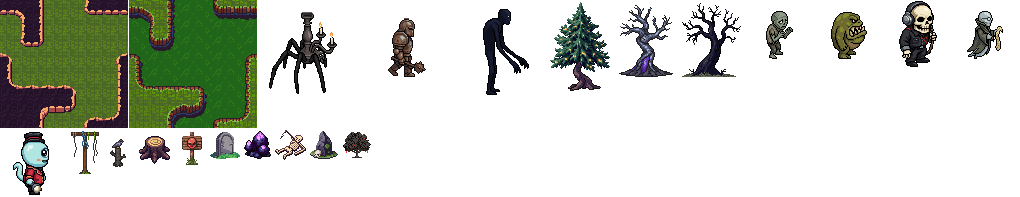
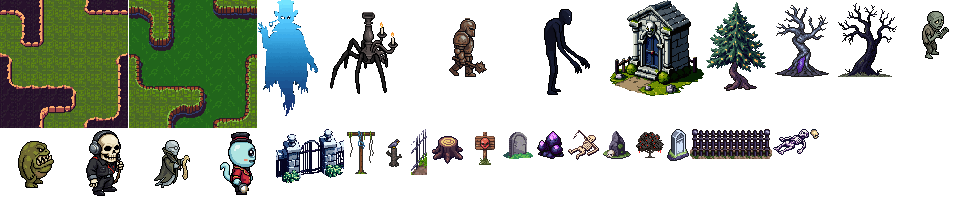
EastScape: the Boneyard rebuilt as six railed graveyards, and The Critic in the Royal Box
The owner: "rebuild the boneyard ... i want there to be graveyards that are bllocked off
by fences, that run long along the pathways and have a small entrance into them, then the
mobs are in there. add art as needed, add a mini ghost boss as well with custom art"

THE ROADS ARE SAFE AND THE YARDS ARE NOT, and that is the whole shape of it. It used to be
one field with monsters sprinkled over it, so a skiller walking to the dragonstone picked
up whatever was nearest whether they wanted a fight or not. Now the paths are clear, every
monster is behind iron railings, and each yard has ONE gap — a fight is something you step
into on purpose. The Flyloft and the Green Room west of the road to Cloudreach, the Gods
and the Pit east of it, the Cheap Seats and the Royal Box south of the main road.

THE CRITIC is the mini boss: a spectral theatre critic, alone in the Royal Box with a
mausoleum, level 42 and 200 health — six and a half Understudies — where the map's band
tops out at 39. He pays 600, the biggest bounty in the game bar The House, and per second
he is still WORSE than farming the yard next door: the reason to open his gate is his rare
table, which is the whole map's on one kill.

FOUR THINGS THE CHECKERS FOUND, each of which was really wrong:
  - graves scattered by hashRand sealed corners of the three-deep yards, walling two
    Chandelier Spiders and an Understudy where nobody could reach them. A stone is now laid
[…]

Changed region(s): [[0.0, 0.0, 0.8669, 1.0], [0.4644, 0.0, 0.9907, 0.4873]]

diff --git a/v3/assets/js/eastscape-shared.js b/v3/assets/js/eastscape-shared.js
@@ -13,7 +13,7 @@
    ============================================================ */
 
 // bump with every change to this file: the server says which version it runs, and a page on another version reloads
-export const VERSION = 227;
+export const VERSION = 228;
 // Maps are 44 x 26 tiles (twice the old 22 x 13 each way, 2026-09-19). The screen shows a 22 x 13 window that follows
 // you (ZOOM in the page), so characters look the size they always did and there's four times the room.
 export const COLS = 44, ROWS = 26;
@@ -1726,31 +1726,142 @@ Object.assign(SCENES, {
     name: "The Boneyard", dark: true, exits: { e: "mire", n: "cloud", w: "sands" }, tint: "rgba(60,20,70,.2)",
     build() {
       const g = grid(), objs = [], keep = [];
-      /* (v122) woodcutting's next step. Every map has had choppable trees all along; these are the tiered ones, so the skill pays better as you go out further instead of paying `logs` forever. */
-      /* (2026-09-22) one ore per tier, on the map whose level band matches it. `rock`, not `vein`, because the art is
-         o_rock_<ore> and that is what exists for every middle tier; o_vein_* is only drawn for copper. */
-      for (const [x, y] of [[5, 19], [9, 20]]) { objs.push({ t: "rock", x, y, ore: "dragonstone_ore", name: "Dragonstone rock", req: { skill: "mining", lvl: 40 }, xp: 86 }); g[y][x] = "#"; }
-      for (const [tx, ty] of [[7, 8], [34, 17]]) { objs.push({ t: "yew", x: tx, y: ty, log: "yewlogs", name: "Ancient yew", req: { skill: "woodcutting", lvl: 35 }, xp: 170 }); g[ty][tx] = "#"; }
-      for (let x = 0; x < COLS; x++) g[13][x] = ",";
-      for (let y = 13; y <= 17; y++) g[y][35] = ",";
-      // the flooded crypt, fished from its north side: bonefish from Fishing 30, ghost carp from 35
-      for (let y = 19; y <= 22; y++) for (let x = 31; x <= 40; x++) g[y][x] = "~";
-      scatterSpots(objs, 31, 40, 19, 5, [1, 2, 4], { name: "Flooded crypt", req: { skill: "fishing", lvl: 30 }, fish: "bonefish", fish2: "ghostcarp", fish2lvl: 35, xp: 110, xp2: 130, glow: "#d8c8ff", tease: "Pale shapes slide between the sunken headstones. Fishing 30." });
-      for (let x = 30; x <= 41; x++) keep.push([x, 18], [x, 17]);
-      for (const [x, y] of [[9, 5], [11, 6], [10, 8], [20, 18], [22, 19], [21, 21], [33, 5], [35, 6], [34, 8], [25, 5], [13, 20]]) { objs.push({ t: "gravestone", x, y, name: "Gravestone" }); g[y][x] = "#"; }
-      for (const [x, y] of [[7, 19], [27, 9], [38, 11]]) { objs.push({ t: "skeleton", x, y, name: "Somebody who stayed" }); g[y][x] = "#"; }
-      for (const [x, y] of [[4, 4], [18, 3], [40, 4], [24, 22]]) { objs.push({ t: "deadtree", x, y, name: "Dead tree" }); g[y][x] = "#"; }
-      NORTH_ROAD(g, keep); objs.push({ t: "sign", x: 20, y: 11, name: "North, and up: Cloudreach. It opens at Combat 40, and Fishing 40. Bring a head for heights." }); g[11][20] = "#";
-      objs.push({ t: "sign", x: 28, y: 15, name: "THE BONEYARD: Combat 30 to 39. Nothing here attacks first. Ghouls to the east, Stagehands to the west, Understudies in the middle, Chandelier Spiders in the north-east, One-Eyed Ushers in the far south-west." }); g[15][28] = "#";
-      for (let x = 0; x < COLS; x++) keep.push([x, 12], [x, 14]);
+
+      /* ---------------------------------------------------------------- SIX RAILED GRAVEYARDS
+         (2026-09-24, the owner: "i want there to be graveyards that are bllocked off by fences, that run long
+         along the pathways and have a small entrance into them, then the mobs are in there. add art as needed,
+         add a mini ghost boss as well with custom art")
+
+         THE ROADS ARE SAFE AND THE YARDS ARE NOT, and that is the whole shape of the map now. It used to be one
+         field with monsters sprinkled over it, so a skiller walking to the dragonstone picked up whatever was
+         nearest whether they wanted a fight or not. Now the paths are clear, every monster is behind iron
+         railings, and each yard has ONE gap in its fence — so a fight is something you step into on purpose.
+
+         `yard()` draws the perimeter and returns the interior. Three rules it keeps, each of which was a bug the
+         first time the map was walked: the gate tile is left OPEN and only wears the gate PICTURE (an object
+         does not block unless the grid says so, and a blocked gate is a yard nobody can enter); every fence tile
+         and every gate goes in `keep`, because wild() paints the edges AFTER build returns and would otherwise
+         rub a railing out; and the fence runs a whole tile outside the interior, so a monster homed against the
+         inside of the wall can still be reached from within rather than only through the bars. */
+      const RAIL = { n: "railH", s: "railH", w: "railV", e: "railV" };
+      const yard = (x0, y0, x1, y1, side, at, name) => {
+        const put = (x, y, t) => {
+          if (x < 0 || y < 0 || x >= COLS || y >= ROWS) return;
+          keep.push([x, y]);
+          if ((side === "n" && y === y0 && x === at) || (side === "s" && y === y1 && x === at)
+            || (side === "w" && x === x0 && y === at) || (side === "e" && x === x1 && y === at)) {
+            objs.push({ t: "railgate", x, y, name: `${name}: the way in` });   // NOT blocked: this is the gap
+            return;
+          }
+          objs.push({ t, x, y, name: `${name}: iron railings` }); g[y][x] = "#";
+        };
+        for (let x = x0; x <= x1; x++) { put(x, y0, RAIL.n); put(x, y1, RAIL.s); }
+        for (let y = y0 + 1; y < y1; y++) { put(x0, y, RAIL.w); put(x1, y, RAIL.e); }
+        for (let y = y0 + 1; y < y1; y++) for (let x = x0 + 1; x < x1; x++) keep.push([x, y]);
+        return { x0: x0 + 1, y0: y0 + 1, x1: x1 - 1, y1: y1 - 1 };
+      };
+
+      /* the four northern yards sit either side of the road to Cloudreach, with a lane at y6 between the pairs;
+         the two southern ones open onto the shoulder under the main road. Every gate faces a path. */
+      const A = yard(2, 1, 19, 5, "s", 10, "The Flyloft");        // Stagehands
+      const B = yard(25, 1, 42, 5, "s", 33, "The Gods");          // Chandelier Spiders
+      const C = yard(2, 7, 19, 11, "n", 10, "The Green Room");    // Understudies
+      const D = yard(25, 7, 42, 11, "n", 33, "The Pit");          // Ghouls
+      const E = yard(1, 17, 12, 24, "n", 6, "The Cheap Seats");   // One-Eyed Ushers
+      const F = yard(16, 17, 29, 24, "n", 22, "The Royal Box");   // the Critic
+
+      /* ---------------------------------------------------------------- the paths
+         Drawn AFTER the yards so a road always wins a tile: the main east-west road, the north road to
+         Cloudreach, the lane between the northern pairs, and the shoulder the two southern gates open onto. */
+      for (let x = 0; x < COLS; x++) { g[13][x] = ","; keep.push([x, 12], [x, 13], [x, 14], [x, 6], [x, 15], [x, 16]); }
+      for (let x = 0; x < COLS; x++) if (g[6][x] !== "#") g[6][x] = ",";
+      for (let y = 15; y <= 16; y++) for (let x = 0; x < COLS; x++) if (g[y][x] !== "#") g[y][x] = ".";
+      for (let y = 17; y <= 24; y++) for (const x of [13, 14, 15, 30, 31, 32]) { if (g[y][x] !== "#") g[y][x] = "."; keep.push([x, y]); }
+      NORTH_ROAD(g, keep);
+
+      /* ---------------------------------------------------------------- what you came here to gather, OUTSIDE the railings
+         (v122 trees, 2026-09-22 ore: one rung per map.) They are all on open ground on purpose — the point of
+         fencing the monsters in is that a skiller can work this map without taking a swing. */
+      /* (2026-09-24) x15 AND NOT x13: tools/eastscape-aggro-check.mjs measures a monster’s reach as DISTANCE,
+         not as somewhere it can walk to, and three One-Eyed Ushers inside the Cheap Seats were within three tiles
+         of the dragonstone. The railings mean they could never actually get there — but they would lock onto a
+         miner and mill at the fence, which is a monster doing something pointless in full view. Two tiles further
+         into the lane and the yard cannot see the rocks at all. */
+      /* THE WORKING CORNER (2026-09-24). All four of these started spread across the map and every place they
+         went was inside an aggressive monster’s reach, which tools/eastscape-aggro-check.mjs measures as where
+         it can STAND (home, wandered) plus its aggro. The southern shoulder is the whole width of two yards, so
+         a rock anywhere along it is three tiles from an Usher or the Critic at the railings: they could never
+         get out, but they would lock onto a miner and mill at the fence. East of x32 nothing can see them, so
+         the ore, the yews and the flooded crypt are one corner you work in peace. */
+      for (const [x, y] of [[33, 15], [36, 16]]) { objs.push({ t: "rock", x, y, ore: "dragonstone_ore", name: "Dragonstone rock", req: { skill: "mining", lvl: 40 }, xp: 86 }); g[y][x] = "#"; }
+      for (const [tx, ty] of [[39, 15], [42, 17]]) { objs.push({ t: "yew", x: tx, y: ty, log: "yewlogs", name: "Ancient yew", req: { skill: "woodcutting", lvl: 35 }, xp: 170 }); g[ty][tx] = "#"; }
+      // the flooded crypt, fished from its north bank: bonefish from Fishing 30, ghost carp from 35
+      for (let y = 19; y <= 24; y++) for (let x = 33; x <= 42; x++) g[y][x] = "~";
+      scatterSpots(objs, 33, 42, 19, 5, [1, 2, 4], { name: "Flooded crypt", req: { skill: "fishing", lvl: 30 }, fish: "bonefish", fish2: "ghostcarp", fish2lvl: 35, xp: 110, xp2: 130, glow: "#d8c8ff", tease: "Pale shapes slide between the sunken headstones. Fishing 30." });
+      for (let x = 32; x <= 43; x++) keep.push([x, 17], [x, 18]);
+
+      /* ---------------------------------------------------------------- the graves, which is what makes them graveyards
+         Scattered by hashRand rather than listed, so every yard is full without six hand-written tables. The
+         lane in front of a gate is left clear (nothing within two tiles of it), and so is every monster's spot —
+         a headstone under a Stagehand is a monster you cannot walk up to. */
+      const mobAt = new Set();
+      const graves = (r, gateX, gateY) => {
+        /* how much of this yard you can walk, coming in through its gate */
+        const walk = () => {
+          const seen = new Set(), q = [[gateX, gateY]];
+          seen.add(`${gateX},${gateY}`);
+          while (q.length) {
+            const [x, y] = q.pop();
+            for (const [dx, dy] of [[1, 0], [-1, 0], [0, 1], [0, -1]]) {
+              const nx = x + dx, ny = y + dy, k = `${nx},${ny}`;
+              if (nx < r.x0 || nx > r.x1 || ny < r.y0 || ny > r.y1 || seen.has(k) || g[ny][nx] !== ".") continue;
+              seen.add(k); q.push([nx, ny]);
+            }
+          }
+          return seen.size;
+        };
+        /* A GRAVE THAT WOULD WALL SOMETHING OFF IS NOT PLACED. These yards are three tiles deep in places, so a
+           headstone in the wrong square seals a corner - and the first run of this map left two Chandelier
+           Spiders and an Understudy standing in pockets nobody could reach. Each stone is laid down, the yard is
+           re-walked, and it is taken up again if the reachable count fell by more than the one tile it occupies.
+           Forty-odd tiles a yard and a dozen stones, so the cost is nothing and the result cannot be wrong. */
+        for (let y = r.y0; y <= r.y1; y++) for (let x = r.x0; x <= r.x1; x++) {
+          if (Math.abs(x - gateX) <= 1 && Math.abs(y - gateY) <= 2) continue;   // leave the way in clear
+          if (mobAt.has(`${x},${y}`) || g[y][x] !== ".") continue;
+          const h = hashRand(x, y, 33);
+          if (h > 0.30) continue;
+          const before = walk();
+          g[y][x] = "#";
+          if (walk() !== before - 1) { g[y][x] = "."; continue; }   // it cut something off: put it back
+          const t = h < 0.21 ? "gravestone" : h < 0.27 ? "bonepile" : "skeleton";
+          objs.push({ t, x, y, name: t === "gravestone" ? "Gravestone" : t === "bonepile" ? "Bones, stacked" : "Somebody who stayed" });
+        }
+      };
+
+      /* ---------------------------------------------------------------- THE ROYAL BOX
+         The mini boss's yard, and the only one with a building in it. The mausoleum is two tiles so it reads as
+         a place rather than a prop, and it sits off the gate's line so the Critic is what you meet first. */
+      objs.push({ t: "mausoleum", x: 25, y: 18, w: 2, h: 2, name: "A mausoleum. The name has worn off the lintel" });
+      block(g, 25, 18, 2, 2); keep.push([25, 18], [26, 18], [25, 19], [26, 19]);
+
+      for (const [x, y] of [[4, 4], [40, 4], [21, 25], [0, 20]]) { if (g[y]?.[x] === ".") { objs.push({ t: "deadtree", x, y, name: "Dead tree" }); g[y][x] = "#"; } }
+      objs.push({ t: "sign", x: 20, y: 12, name: "North, and up: Cloudreach. It opens at Combat 40, and Fishing 40. Bring a head for heights." }); g[12][20] = "#";
+      objs.push({ t: "sign", x: 24, y: 14, name: "THE BONEYARD: Combat 30 to 39. Nothing here comes through a fence. The Flyloft and the Green Room are west of the road, the Gods and the Pit east of it; the Cheap Seats and the Royal Box are south. Each yard has one gate. Something in the Royal Box does not wait to be asked." }); g[14][24] = "#";
+
+      // keep every mob's own square clear before the graves go in
+      for (const [, mx, my] of this.mobs) mobAt.add(`${mx},${my}`);
+      graves(A, 10, 5); graves(B, 33, 5); graves(C, 10, 7); graves(D, 33, 7); graves(E, 6, 17); graves(F, 22, 17);
+
       wild(g, objs, this.exits, { n: "scrub", s: "scrub", w: "scrub", e: "scrub" }, [...keepOf(this), ...keep], 33);
       return { g, objs, blobs: [] };
     },
-    mobs: [["ghoul", 36, 7], ["ghoul", 39, 9], ["ghoul", 31, 9], ["ghoul", 37, 3], ["ghoul", 41, 7], ["ghoul", 30, 6],
-      ["stagehand", 8, 8], ["stagehand", 13, 9], ["stagehand", 6, 6], ["stagehand", 14, 5], ["stagehand", 16, 17], ["stagehand", 18, 20],
-      ["understudy", 24, 17], ["understudy", 26, 20], ["understudy", 27, 16], ["understudy", 27, 8],
-      ["chandelier", 29, 2], ["chandelier", 31, 3], ["chandelier", 30, 4],
-      ["usher", 4, 21], ["usher", 6, 22], ["usher", 8, 21], ["usher", 5, 23]],
+    /* every monster is inside a yard, which is the point. The Critic is alone in his. */
+    mobs: [["stagehand", 5, 3], ["stagehand", 9, 2], ["stagehand", 14, 4], ["stagehand", 17, 3], ["stagehand", 12, 2],
+      ["chandelier", 28, 3], ["chandelier", 33, 2], ["chandelier", 38, 4], ["chandelier", 40, 2],
+      ["understudy", 6, 9], ["understudy", 11, 10], ["understudy", 16, 8], ["understudy", 13, 9],
+      ["ghoul", 28, 9], ["ghoul", 32, 8], ["ghoul", 36, 10], ["ghoul", 40, 9], ["ghoul", 30, 10], ["ghoul", 38, 8],
+      ["usher", 4, 19], ["usher", 8, 21], ["usher", 5, 22], ["usher", 9, 19], ["usher", 3, 23], ["usher", 10, 23],
+      ["critic", 22, 21]],
     npcs: [], bots: []
   },
   // east of the Forum: the great road, a toll post, highwaymen, and a barricade where the road washed out
@@ -2635,6 +2746,13 @@ export const MOBS = {
   counter: { name: "Card Counter", size: "m", lvl: 24, hp: 38, att: 18, def: 15, max: 4, speed: 2400, box: [8, 26], drops: [] },
   shark: { name: "Loan Shark", size: "m", lvl: 26, hp: 42, att: 19, def: 16, max: 5, speed: 2400, aggro: 3, box: [12, 28], drops: [] },
   stagehand: { name: "The Stagehand", size: "m", lvl: 32, hp: 50, att: 23, def: 20, max: 5, speed: 2400, box: [8, 28], drops: [] },
+  /* (2026-09-24, the owner: "add a mini ghost boss as well with custom art") THE CRITIC, alone in the Royal Box.
+     A MINI boss and not a dungeon one: no party, no ante, no run — he stands in a yard and you walk in. The
+     numbers say mini rather than big: 200 hit points against the Understudy’s 31, so about seven of the
+     hardest thing on this map, and level 42 so he sits just over the band’s ceiling of 39. He is the only
+     thing in the Boneyard that comes for you (`aggro`), which is why he is behind a gate you choose to open.
+     The declared hp is DOUBLE what he fights with: every mob in this table is halved at load. */
+  critic: { name: "The Critic", size: "xl", lvl: 42, hp: 400, att: 34, def: 30, max: 11, speed: 2500, aggro: 6, box: [16, 46], drops: [] },
   usher: { name: "One-Eyed Usher", size: "m", lvl: 36, hp: 56, att: 26, def: 23, max: 6, speed: 2400, aggro: 4, box: [8, 26], drops: [] },
   brainstorm: { name: "Brainstorm", size: "s", lvl: 40, hp: 60, att: 29, def: 25, max: 7, speed: 2200, box: [7, 16], drops: [] },
   seagoat: { name: "Sea-Goat of the Upper Air", size: "l", lvl: 46, hp: 78, att: 33, def: 29, max: 8, speed: 2800, box: [20, 36], drops: [] },
@@ -2734,6 +2852,9 @@ export const LOOT = {
   gator:      { item: ["hide", [1, 2]], rare: [["bogplate", 0.04], ["spiderboots", 0.02], ["angels_ring", 0.01]] },
   junkking:   { item: ["catalytic", [2, 4]], rare: [["kingcap", 0.08], ["wrench", 0.05], ["angels_ring", 0.04], ["slagstone", 0.5]] },
   understudy: { item: ["diamond_ore", [1, 2]], rare: [["bonegourd", 0.0125], ["sharps_gloves", 0.025]] },
+  /* HE PAYS IN THINGS. Bonegourds every time (the Boneyard’s alchemy crop, and the Coilbreaker wants one),
+     and the map’s whole rare table on one kill instead of spread over five monsters. */
+  critic: { item: ["bonegourd", [2, 4]], rare: [["monocle", 0.01], ["lantern", 0.01], ["angels_ring", 0.01], ["adjusters_visor", 0.01], ["spiderboots", 0.01]] },
   chandelier: { item: ["cobweb", 1], rare: [["bonegourd", 0.0125], ["lantern", 0.03], ["angels_ring", 0.02], ["spiderboots", 0.01]] },
   ram: { item: ["dragonstone_ore", 1], rare: [["stormcorn", 0.0125], ["grudge", 0.02], ["stake_loafers", 0.015]] },
   // v68: the bands' new residents. One thing each; the buff gear is spread so every band past the Yard can drop some
@@ -2783,7 +2904,7 @@ export const LOOT = {
    leave — run tools/eastscape-aggro-check.mjs after touching this, which is what proves an aggressive thing cannot
    camp a doorway. */
 export const AGGRO_ON = new Set([
-  "chandelier", "usher",                       // The Boneyard (30): yewlogs, dragonstone ore
+  "chandelier", "usher", "critic",             // The Boneyard (30): yewlogs, dragonstone ore — and The Critic, who is behind his own gate
   "revenant", "angel",                         // Cloudreach (40): onyx ore, skyeel
   "wolf", "drake", "house",                    // The Thunderhead (50): thundersquid
   "junkdog", "possum", "gator", "junkking",    // The Trailer Park (80): bogwood, slagstone, bowfin
@@ -4025,7 +4146,11 @@ export const CRAFT_PAYS = 2, CRAFT_STEP = 1.25;
    a minute than the one before it, from the Yard's chickens to The House, and the first monster of an area beats the last of the
    one before. Nothing was lowered. Measured a minute: Yard 189 to 230, Gloam 239 to 423, Mire 460 to 771, Boneyard 1,028 to
    1,202, Cloudreach 1,349 to 1,578, the Thunderhead 1,641 to 1,920. */
-export const BOUNTY = { chicken: 18, cow: 32, rotten: 39, olive: 38, hornworm: 51, boar: 53, highwayman: 40, goat: 45, gnasher: 80, moth: 74, taxwraith: 150, ghoul: 177, chandelier: 205, understudy: 250, ram: 266, angel: 352, revenant: 324, goose: 419,
+/* (2026-09-24) THE CRITIC pays 600, the biggest in the game bar The House. He is a slow kill — about seven
+   Understudies of health — so per second he is WORSE than farming the yard next door, and that is deliberate:
+   the reason to open his gate is the rare table, not the tickets. Without an entry here killFinds returns early,
+   so he would drop no rares, hand out no casino finds, and not count toward a Lucky clover. */
+export const BOUNTY = { critic: 600, chicken: 18, cow: 32, rotten: 39, olive: 38, hornworm: 51, boar: 53, highwayman: 40, goat: 45, gnasher: 80, moth: 74, taxwraith: 150, ghoul: 177, chandelier: 205, understudy: 250, ram: 266, angel: 352, revenant: 324, goose: 419,
   toadstool: 37, boneidle: 79, twister: 73, counter: 91, shark: 143, stagehand: 196, usher: 223, brainstorm: 247, seagoat: 329,
   /* THE 50+ BAND pays MORE than the tool asks: its reference wage goes flat at level 40 (there was no skilling past onyx), so left alone a level-70
      kill would pay a level-42 minute. These are the tool's numbers times 1 + 1.2% a level past 42, so the last band is worth reaching. The goose moved with them. */

diff --git a/eastscape.html b/eastscape.html
@@ -10,7 +10,7 @@
 <link rel="icon" type="image/png" sizes="32x32" href="/v3/assets/img/eastcoin-icon-32.png?v=1">
 <link rel="apple-touch-icon" sizes="180x180" href="/v3/assets/img/eastcoin-icon-180.png?v=1">
 <link rel="preload" href="/v3/assets/fonts/nunito-v32-latin.woff2" as="font" type="font/woff2" crossorigin>
-<link rel="modulepreload" href="/v3/assets/js/eastscape-shared.js?v=240">
+<link rel="modulepreload" href="/v3/assets/js/eastscape-shared.js?v=241">
 <link rel="modulepreload" href="/v3/assets/js/eastscape-sfx.js?v=13">
 <link rel="preconnect" href="https://play.eastcoin.vip">
 <!-- EastScape: the page only draws. Everything that happens is decided by the game server
@@ -1008,7 +1008,7 @@ b.who{cursor:pointer;text-decoration:underline dotted rgba(42,32,22,.45);text-un
   </aside>
 </main>
 <script type="module">
-import * as G from "/v3/assets/js/eastscape-shared.js?v=240";
+import * as G from "/v3/assets/js/eastscape-shared.js?v=241";
 // the wiki's words (guides, the update log) are 13 KB nobody needs until they open the wiki: fetched on first open
 let WK = { GUIDES: [], UPDATES: [{ date: "", title: "Loading…", items: [] }], SKILL_GUIDE: {}, stub: true };
 const loadWiki = () => (loadWiki.p ||= import("/v3/assets/js/eastscape-wiki.js?v=133").then((m) => { WK = m; }));
@@ -1549,7 +1549,7 @@ const ART_VER = { t_tomb: 4, o_bomkiosk: 7, o_plot: 2, kellz_south: 5, kellz_eas
    because a crop added to CROPS should ask for its art without anybody remembering to type four more names —
    the content check then fails until that art exists, which is the right way round. */
 const CROP_ART = Object.keys(G.CROPS).flatMap((k) => [1, 2, 3, 4].map((n) => `crop_${k}_${n}`));
-const ART_FILES = ["t_dock", ...CROP_ART, "o_yardtree", "o_yardtree_stump", "o_tower", "t_doors", "fx_hit", "fx_crit", "fx_miss", "fx_bleed", "vince_south", "vince_east", "casino", "rony_south", "rony_east", "o_bomkiosk", "t_pit", "o_fightboard", "o_hsboard", "o_fameboard", "o_ringbell", "o_ringpost", "o_mirror", "o_rrtable", "o_barcart", "kellz_south", "kellz_east", "livia_south", "livia_east", "gaius_south", "gaius_east", "aurelia_south", "aurelia_east", "arbino_south", "arbino_east", "vince_south", "vince_east", "sterling_south", "sterling_east", "o_buffet", "o_l_chips", "o_l_cards", "o_l_spill", "o_l_slips", "o_wetfloor", "o_mopbucket", "o_coatrack", "o_suitcase", "o_l_shoe", "o_soda", "o_snacks", "o_stool", "o_armchair", "o_ashtray", "o_smokesign", "o_trashcan", "o_cooler", "o_planter", "o_cashier", "o_hilo", "o_mines", "o_plinko", "o_scratch", "o_pokertable", "o_blackjack", "o_coinstatue", "o_ropepost", "o_cocktail", "o_jukebox", "o_oddsboard", "o_wildladder", "pet_bonepup", "pet_packrat", "pet_cointoad", "pet_lanternmoth", "pet_housecat", "pet_coilling",   /* (2026-09-24) the Pyramid’s pet was in PETS and had a picture on disk and was in NEITHER of these two lists — its icon drew an empty box AND an equipped one would have walked around invisible. Every pet goes in both, drop or no drop. */ "o_prizewheel", "o_piano", "o_atm", "wall_neon", "wall_painting1", "wall_painting2", "pete_south", "pete_east", "nana_south", "nana_east", "randy_south", "randy_east", "wendell_south", "wendell_east", "ronde_south", "ronde_east", "t_casino", "t_roulette", "rug_casino", "rouge_south", "rouge_east", "dex_south", "dex_east", "dookie_south", "dookie_east", "t_dirt", "t_brick", "o_fencepost", "o_crates", "o_lamppost", "o_sacks", "o_handcart", "t_track", "o_gateframe", "o_gatebars", "o_agilend", "o_trailer", "o_wreck", "o_tyres", "o_dumpster", "o_rock_slagstone", "o_rustpine", "o_bogwood", "junkdog", "possum", "scrapper", "gator", "junkking", "darla_south", "darla_east", "t_water", "t_gwater", "t_gpath", "t_csky", "t_cpath", "farmhouse", "hut", "well", "tree", "hay", "wheat", "cow", "chicken", "hole",
+const ART_FILES = ["t_dock", ...CROP_ART, "o_yardtree", "o_yardtree_stump", "o_tower", "t_doors", "fx_hit", "fx_crit", "fx_miss", "fx_bleed", "vince_south", "vince_east", "casino", "rony_south", "rony_east", "o_bomkiosk", "t_pit", "o_fightboard", "o_hsboard", "o_fameboard", "o_ringbell", "o_ringpost", "o_mirror", "o_rrtable", "o_barcart", "kellz_south", "kellz_east", "livia_south", "livia_east", "gaius_south", "gaius_east", "aurelia_south", "aurelia_east", "arbino_south", "arbino_east", "vince_south", "vince_east", "sterling_south", "sterling_east", "o_buffet", "o_l_chips", "o_l_cards", "o_l_spill", "o_l_slips", "o_wetfloor", "o_mopbucket", "o_coatrack", "o_suitcase", "o_l_shoe", "o_soda", "o_snacks", "o_stool", "o_armchair", "o_ashtray", "o_smokesign", "o_trashcan", "o_cooler", "o_planter", "o_cashier", "o_hilo", "o_mines", "o_plinko", "o_scratch", "o_pokertable", "o_blackjack", "o_coinstatue", "o_ropepost", "o_cocktail", "o_jukebox", "o_oddsboard", "o_wildladder", "critic", "o_railH", "o_railV", "o_railgate", "o_mausoleum", "pet_bonepup", "pet_packrat", "pet_cointoad", "pet_lanternmoth", "pet_housecat", "pet_coilling",   /* (2026-09-24) the Pyramid’s pet was in PETS and had a picture on disk and was in NEITHER of these two lists — its icon drew an empty box AND an equipped one would have walked around invisible. Every pet goes in both, drop or no drop. */ "o_prizewheel", "o_piano", "o_atm", "wall_neon", "wall_painting1", "wall_painting2", "pete_south", "pete_east", "nana_south", "nana_east", "randy_south", "randy_east", "wendell_south", "wendell_east", "ronde_south", "ronde_east", "t_casino", "t_roulette", "rug_casino", "rouge_south", "rouge_east", "dex_south", "dex_east", "dookie_south", "dookie_east", "t_dirt", "t_brick", "o_fencepost", "o_crates", "o_lamppost", "o_sacks", "o_handcart", "t_track", "o_gateframe", "o_gatebars", "o_agilend", "o_trailer", "o_wreck", "o_tyres", "o_dumpster", "o_rock_slagstone", "o_rustpine", "o_bogwood", "junkdog", "possum", "scrapper", "gator", "junkking", "darla_south", "darla_east", "t_water", "t_gwater", "t_gpath", "t_csky", "t_cpath", "farmhouse", "hut", "well", "tree", "hay", "wheat", "cow", "chicken", "hole",
   ...["south", "south-east", "east", "north-east", "north", "north-west", "west", "south-west"].flatMap((d) => ["hero_" + d, "legend_" + d]),   // (hero_tiro_*, the old tunic, left the startup list 2026-09-20: nobody wears it now that everyone has a look)
   "bank", "store", "cottage", "signpost", "tree2", "tree3", "tree4", "o_spot", "o_spot1", "o_spot2", "o_spot3", "o_spot4", "o_spot5", "g_bush", "g_boulder", "g_grass", "g_flowers",
   ...["banner", "lamp", "vault", "herbs", "shelf", "window"].map((w) => "wall_" + w),
@@ -1617,7 +1617,7 @@ function registerArt(k, im) {   // `im` is a loaded Image, or a canvas the page 
    fetches the sheet ONCE, cuts every picture in it into its own small canvas and registers them all, so the rest of the page
    never knows. A picture in no sheet, or whose sheet won't load, is fetched by itself exactly as before (loadOne), so new art
    works before it is packed. PACKS_V is packs.json's ?v= and is bumped by the pack tool, never by hand. */
-const PACKS_V = 70;
+const PACKS_V = 71;
 const PACK_DIR = "/v3/assets/img/glad/packs/", packOf = new Map(), packJobs = new Map(); let PACKS = null;
 const packsReady = fetch(`${PACK_DIR}packs.json?v=${PACKS_V}`).then((r) => (r.ok ? r.json() : null)).then((j) => { if (!j || typeof j !== "object") return; PACKS = j; for (const [name, p] of Object.entries(j)) for (const k of Object.keys(p.keys || {})) if (!packOf.has(k)) packOf.set(k, name); }).catch(() => { /* no sheets: every picture comes on its own */ });
 const loadPack = (name) => packJobs.get(name) || packJobs.set(name, new Promise((res) => {
@@ -1700,7 +1700,7 @@ const AREA_ART = {
      somewhere nobody downloads, and both of the Boneyard's Ancient yews fell back to the generic tree drawing.
      Same for the dead trees, whose picture was never in ART_FILES at all. An area list must name every picture
      that area needs, not merely the ones unique to it. */
-  boneyard: [...WILD_ART, "o_yew", "o_yew_stump", "ghoul", "stagehand", "understudy", "usher"],
+  boneyard: [...WILD_ART, "o_yew", "o_yew_stump", "ghoul", "stagehand", "understudy", "usher", "critic", "o_railH", "o_railV", "o_railgate", "o_mausoleum", "o_bonepile", "o_gravestone", "o_skeleton"],   /* (2026-09-24) the six railed yards, the mausoleum in the Royal Box, and The Critic */
   sky: ["ram", "angel", "goose"],
   // the Fight Pit: everyone who might be sent out to fight, and the corner clutter
   fightpit: ["t_pit", "o_fightboard", "o_ringbell", "o_ringpost", "olive", "hornworm", "boar", "goat", "highwayman", "gnasher", "moth", "taxwraith", "ghoul", "chandelier", "understudy", "ram", "revenant", "angel", "goose"],   // (FIGHTS.pool, less the three that are core; Vince is core since v111: he stands in the casino too)
